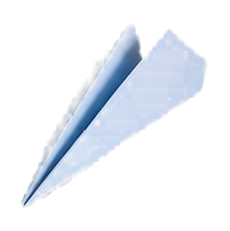
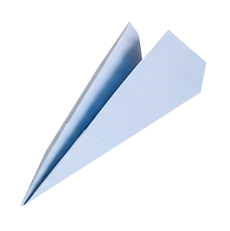
Atualiza index.html

diff --git a/index.html b/index.html
@@ -837,10 +837,10 @@ body{padding-top:0}
       <span class="capa-arco" aria-hidden="true"></span>
       <img src="fotos/capa-criancas-horizontal.jpg" alt="Crianças sorrindo e brincando com roupas da Pequenos Aprendizes" width="1600" height="901" fetchpriority="high">
       <!-- aviãozinho recortado da própria foto, no mesmo lugar, por cima da nuvem -->
-      <div class="capa-aviao-caixa" aria-hidden="true"><div class="capa-aviao-quadro"><img class="capa-aviao" src="fotos/capa-aviao.png" alt=""></div></div>
+      <div class="capa-aviao-caixa" aria-hidden="true"><div class="capa-aviao-quadro"><img class="capa-aviao" src="fotos/capa-aviao.png?v=2" alt=""></div></div>
       <!-- nuvem fofinha no fim da capa: bolhas de tamanhos diferentes (posicionadas para o aviãozinho ficar no meio de uma bolha) -->
       <svg class="capa-nuvens" viewBox="0 0 1440 130" preserveAspectRatio="xMidYMax slice" aria-hidden="true">
-        <g class="nuvem-frente"><circle cx="-14" cy="132" r="58"/><rect x="0" y="112" width="1440" height="18"/><circle cx="70" cy="128" r="64"/><circle cx="180" cy="132" r="58"/><circle cx="302" cy="126" r="76"/><circle cx="418" cy="136" r="50"/><circle cx="520" cy="128" r="64"/><circle cx="642" cy="124" r="82"/><circle cx="764" cy="138" r="52"/><circle cx="872" cy="128" r="70"/><circle cx="992" cy="134" r="58"/><circle cx="1112" cy="122" r="80"/><circle cx="1232" cy="136" r="54"/><circle cx="1340" cy="128" r="68"/><circle cx="1460" cy="132" r="62"/></g>
+        <g class="nuvem-frente"><circle cx="16" cy="132" r="58"/><rect x="0" y="112" width="1440" height="18"/><circle cx="100" cy="128" r="64"/><circle cx="210" cy="132" r="58"/><circle cx="332" cy="126" r="76"/><circle cx="448" cy="136" r="50"/><circle cx="550" cy="128" r="64"/><circle cx="672" cy="124" r="82"/><circle cx="794" cy="138" r="52"/><circle cx="902" cy="128" r="70"/><circle cx="1022" cy="134" r="58"/><circle cx="1142" cy="122" r="80"/><circle cx="1262" cy="136" r="54"/><circle cx="1370" cy="128" r="68"/><circle cx="1490" cy="132" r="62"/></g>
       </svg>
     </div>
   </section>
